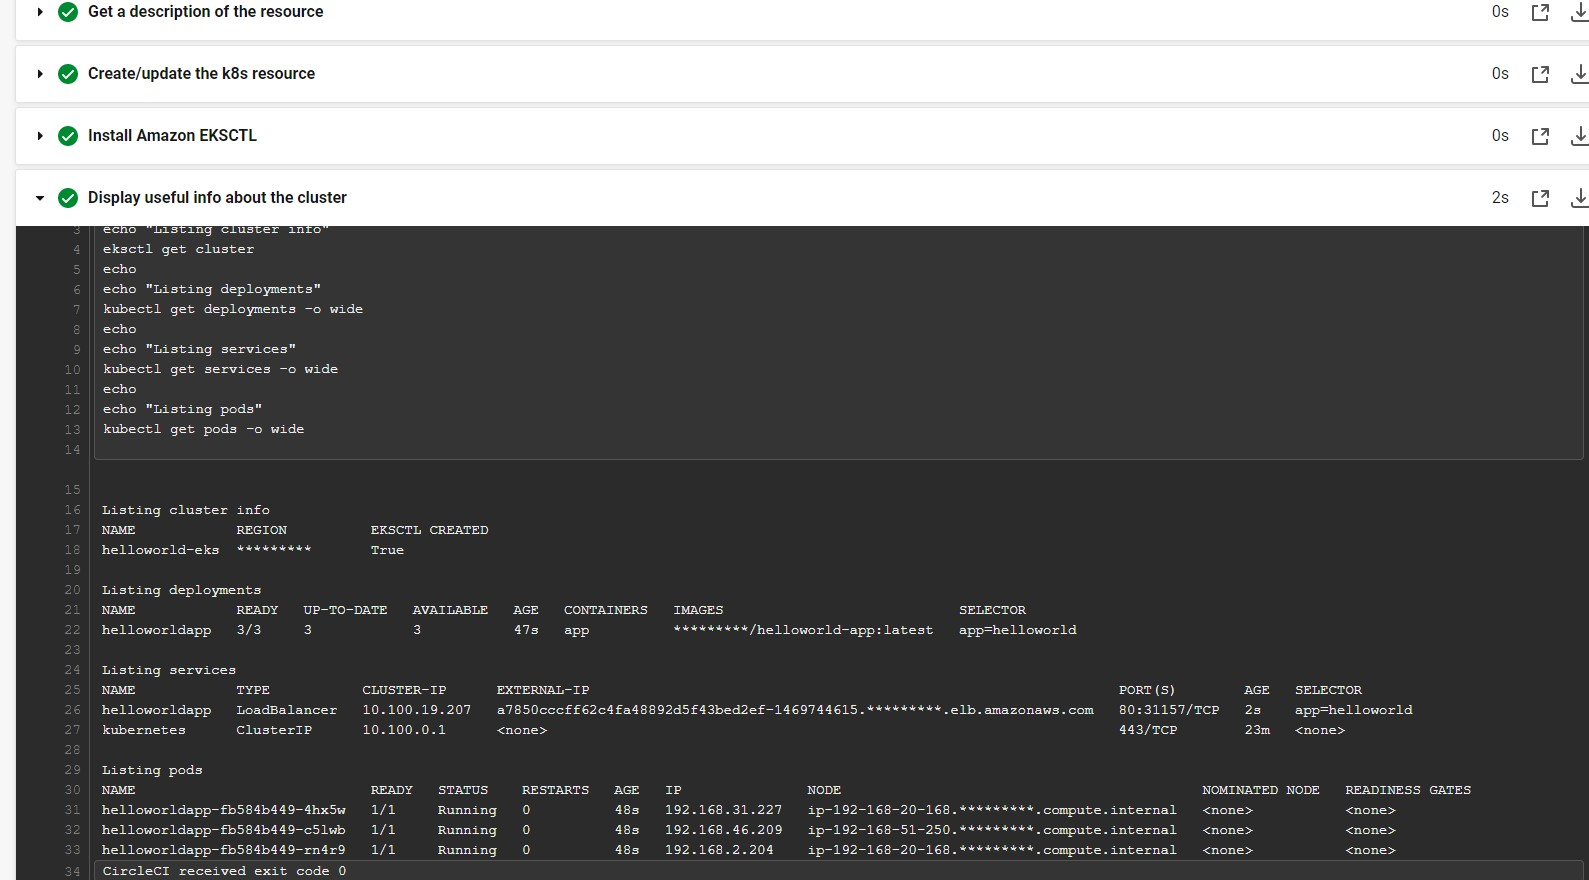
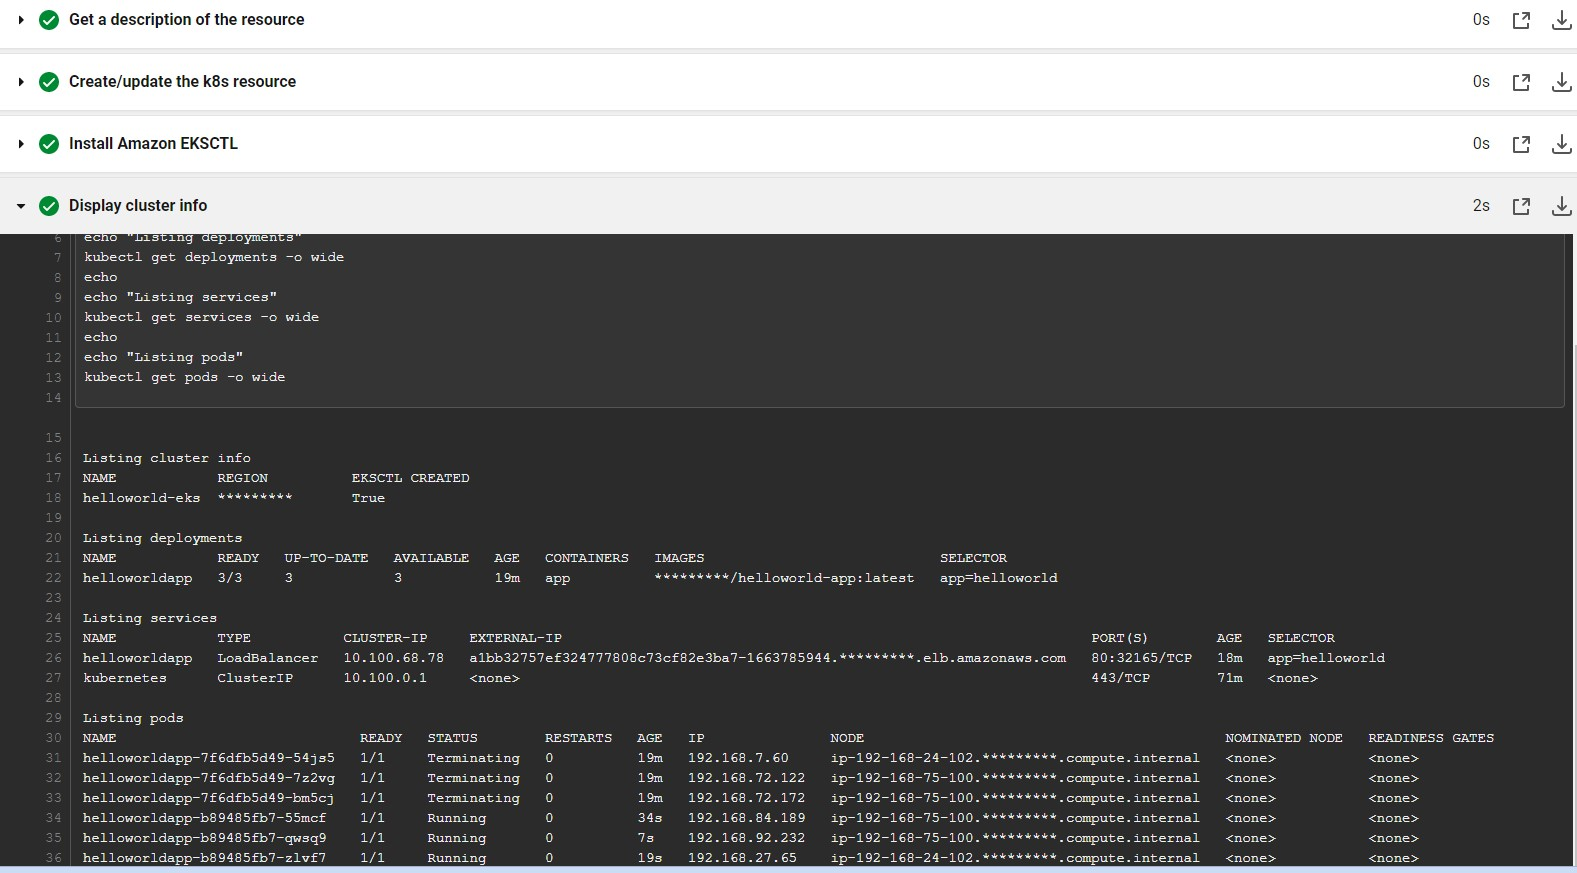
revise for version 2

Changed region(s): [[0.0, 0.0, 1.0, 1.0], [0.4661, 0.6495, 0.5593, 0.6804], [0.3418, 0.6186, 0.435, 0.6495]]

diff --git a/README.md b/README.md
@@ -65,12 +65,15 @@ When circleci step "create-cluster" runs, it
 When step deploy-application runs, it deploys the rolling current version to Kubernetes.
 * Deployment images are as follows
   ![](images/circleci-deploy1.jpg)
-  ![](images/circleci-deploy1.jpg)
+  ![](images/circleci-deploy2.jpg)
 
 * Go to the External IP, we can see our current version Version 1 is running
   ![](images/ExternalIP-VersionOne.jpg)
-  
-Rolling deployment to AWS EKS after update to app.py
+
+* Since this is rolling deployment strategy, we modify the app.py and then commit to trigger the circleci  
+* Go to the External IP again, we can see our current version Version 2 is running
+  ![](images/ExternalIP-VersionTwo.jpg)
+
 ---
 
 
@@ -81,9 +84,6 @@ Rolling deployment to AWS EKS after update to app.py
    ![](images/docker-3.jpg)
 3. Push image to Docker Hub: `./upload_docker.sh`, below is the image showing the docker upload
    ![](images/docker-4.jpg)
-4. 
-5. Rolling deployment to AWS EKS after update to app.py:  `./deploy_kubernete.sh`.
-
 
 ---
 ## Brief file description
@@ -92,6 +92,4 @@ Rolling deployment to AWS EKS after update to app.py
 * `run_docker.sh` - build and run docker image locally
 * `upload_docker.sh` - upload docker image to docker hub
 * `cluster.yml` - simple k8s cluster config
-* `run_k8s.sh` - initial k8s deployment
-* `deploy_k8s.sh` - rolling k8s deployment
 ---
